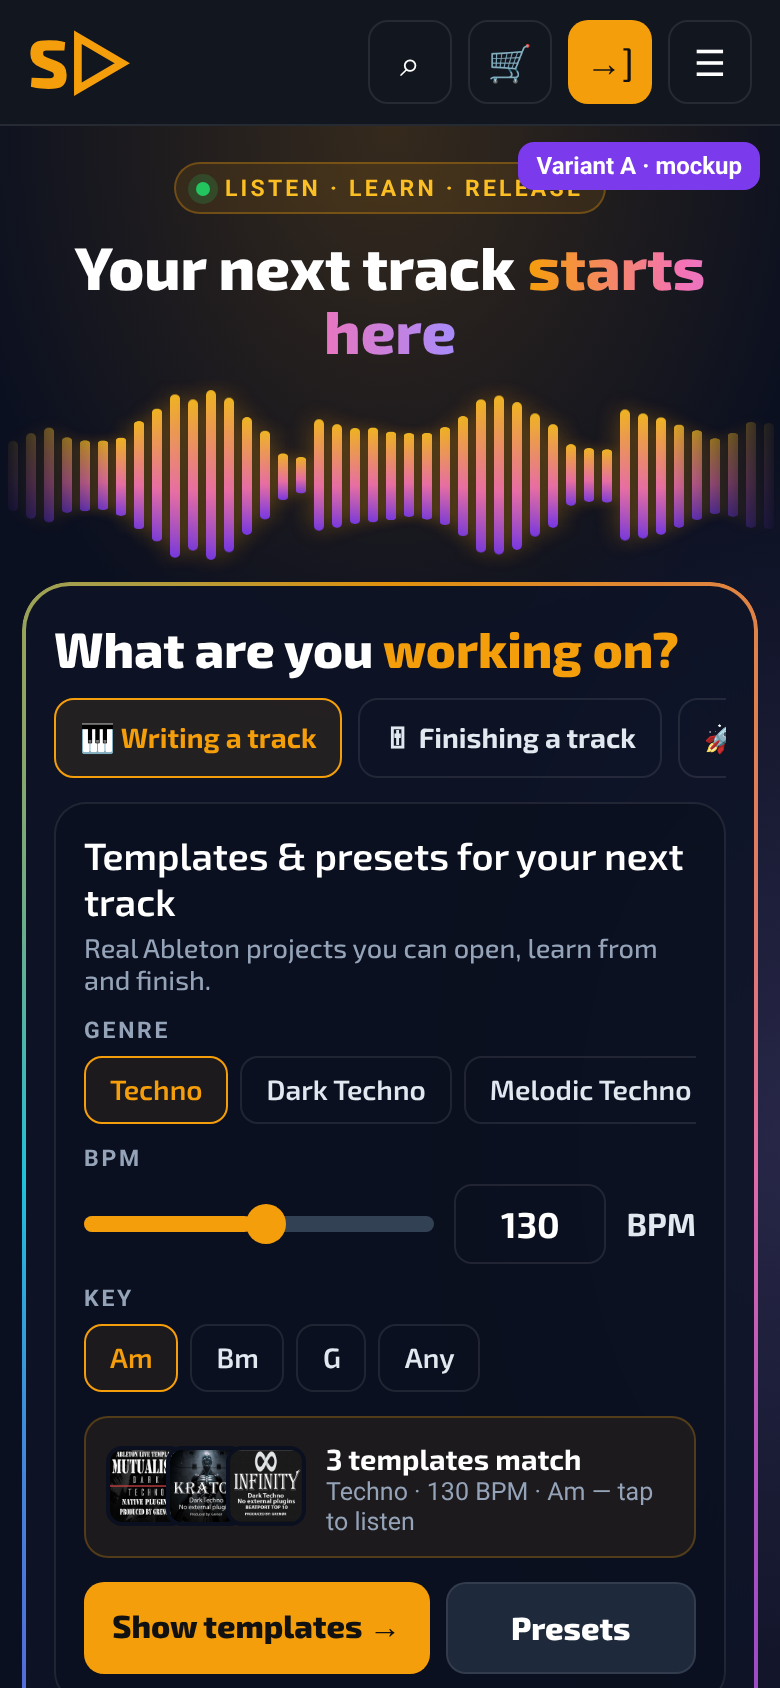
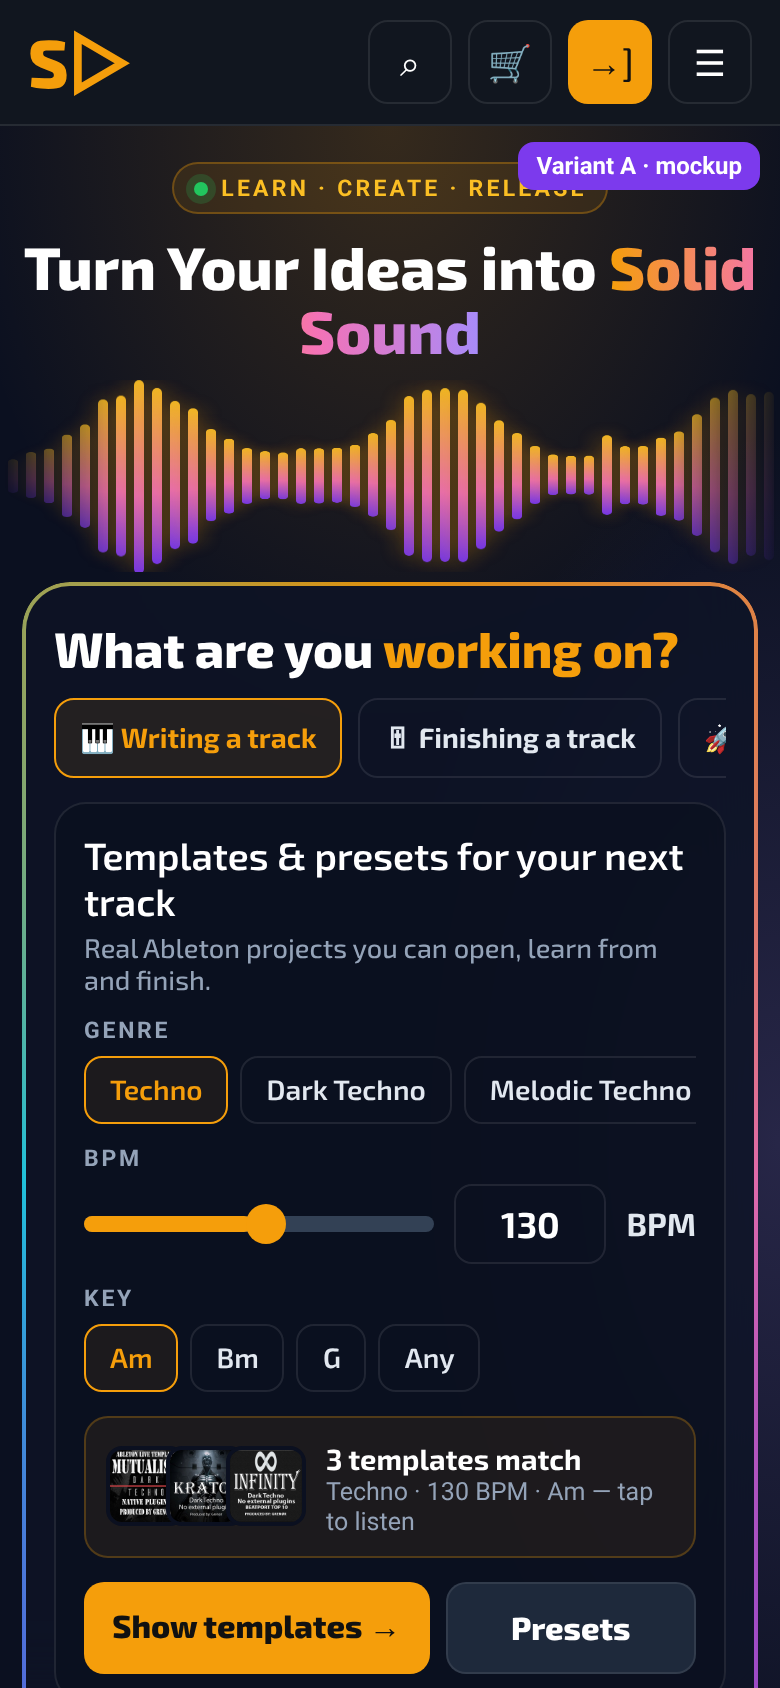
Slider mockups: our slogan 'Turn Your Ideas into Solid Sound'
Claude-Session: https://claude.ai/code/session_01JfK5zSDYR2btK9FRr3xgU6

diff --git a/mockups/slider-variants.html b/mockups/slider-variants.html
@@ -82,12 +82,12 @@ var V=(location.hash||'#A').slice(1),C=['Mutualism.jpg','Kratos.jpg','Infinity.j
 document.body.className=V;document.getElementById('vl').textContent='Variant '+V+' · mockup';
 var bg=document.getElementById('bg'),hl=document.getElementById('hl'),pre=document.getElementById('pre'),ex=document.getElementById('extra');
 if(V==='A'){var v=document.createElement('div');v.className='viz';for(var i=0;i<Math.floor(innerWidth/9);i++){var b=document.createElement('i');b.style.height=(28+Math.abs(Math.sin(i/5))*56+Math.random()*16)+'px';b.style.animationDelay=(-(i%17)/10)+'s';v.appendChild(b)}
- hl.innerHTML='<span class="k"><span class="live"></span>Listen · learn · release</span><h1>Your next track <em>starts here</em></h1>';hl.after(v);
+ hl.innerHTML='<span class="k"><span class="live"></span>Learn · Create · Release</span><h1>Turn Your Ideas into <em>Solid Sound</em></h1>';hl.after(v);
  ex.innerHTML='<div class="match"><div class="cv"><img src="Mutualism.jpg"><img src="Kratos.jpg"><img src="Infinity.jpg"></div><div><b>3 templates match</b><small>Techno · 130 BPM · Am — tap to listen</small></div></div>'}
 if(V==='B'){var w=document.createElement('div');w.className='wall';for(var r=0;r<5;r++){var row=document.createElement('div');row.className='row';for(var k=0;k<16;k++){var im=document.createElement('img');im.src=C[(k+r*3)%C.length];row.appendChild(im)}w.appendChild(row)}bg.appendChild(w);
  hl.innerHTML='<span class="k"><span class="live"></span>Made by real producers</span><h1>Sounds that <em>finish tracks</em></h1>'}
 if(V==='C'){var g=document.createElement('div');g.className='grid';var cols=['#f59e0b','#f472b6','#a78bfa','#22d3ee','#22c55e','#fb7185'];for(var i=0;i<16*30;i++){var c=document.createElement('i');if(Math.random()<.45){c.style.setProperty('--c',cols[i%cols.length]);c.style.animationDelay=(-(i%8)*.25)+'s';c.style.animationDuration=(1+(i%4)*.5)+'s'}else c.style.animation='none';g.appendChild(c)}bg.appendChild(g);
- hl.innerHTML='<span class="k"><span class="live"></span>Open the project. See how it’s made.</span><h1>The studio behind <em>the sound</em></h1>';
+ hl.innerHTML='<span class="k"><span class="live"></span>Learn · Create · Release</span><h1>Turn Your Ideas into <em>Solid Sound</em></h1>';
  var bars='';for(var i=0;i<28;i++)bars+='<i style="height:'+(25+Math.random()*75)+'%;animation-delay:-'+(Math.random()).toFixed(2)+'s"></i>';
  pre.innerHTML='<div class="now"><img src="Mutualism.jpg"><div style="flex:1;min-width:0"><b>Now playing · Mutualism</b><small>Dark Techno · Ableton 11 · native plugins · $13</small><div class="wv">'+bars+'</div></div><div class="pl">❚❚</div></div>'}
 </script></body></html>
